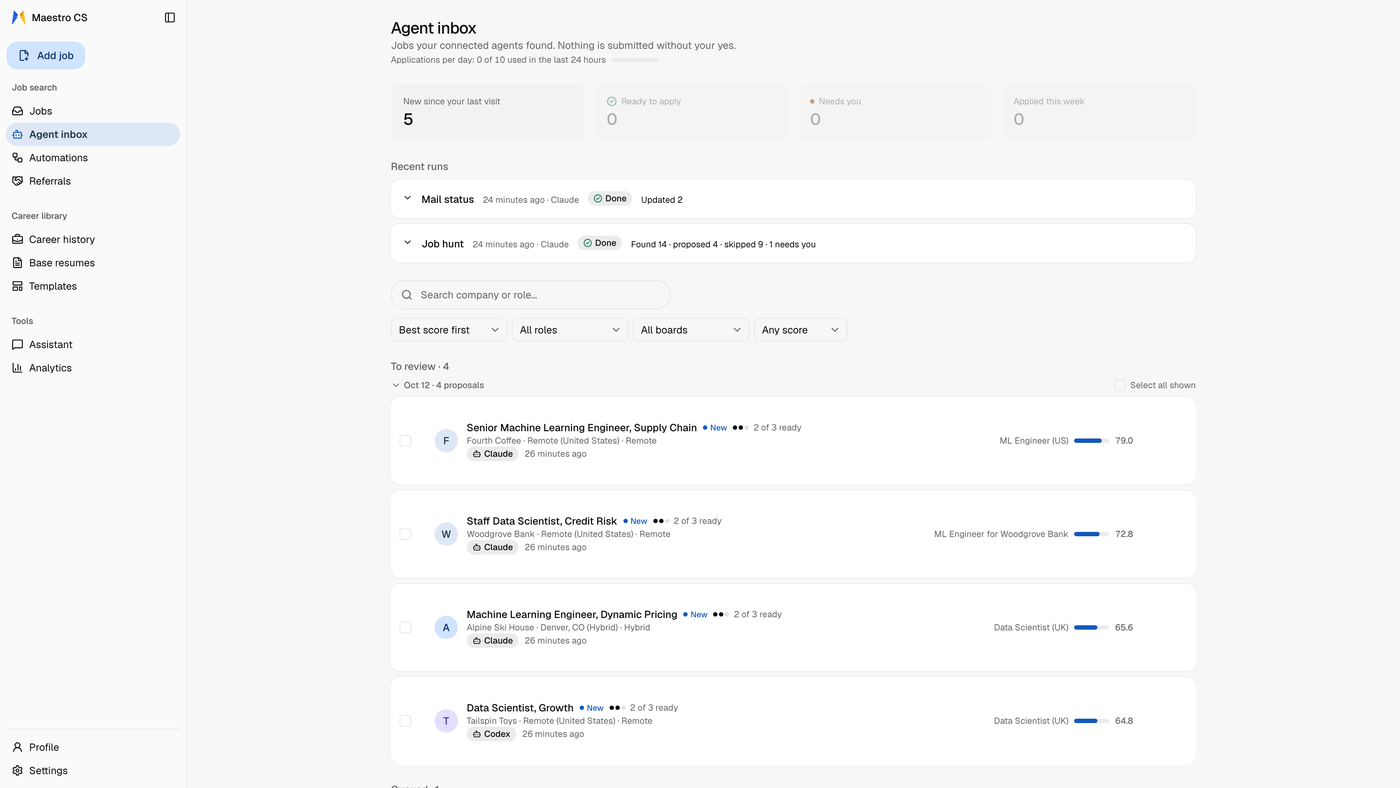
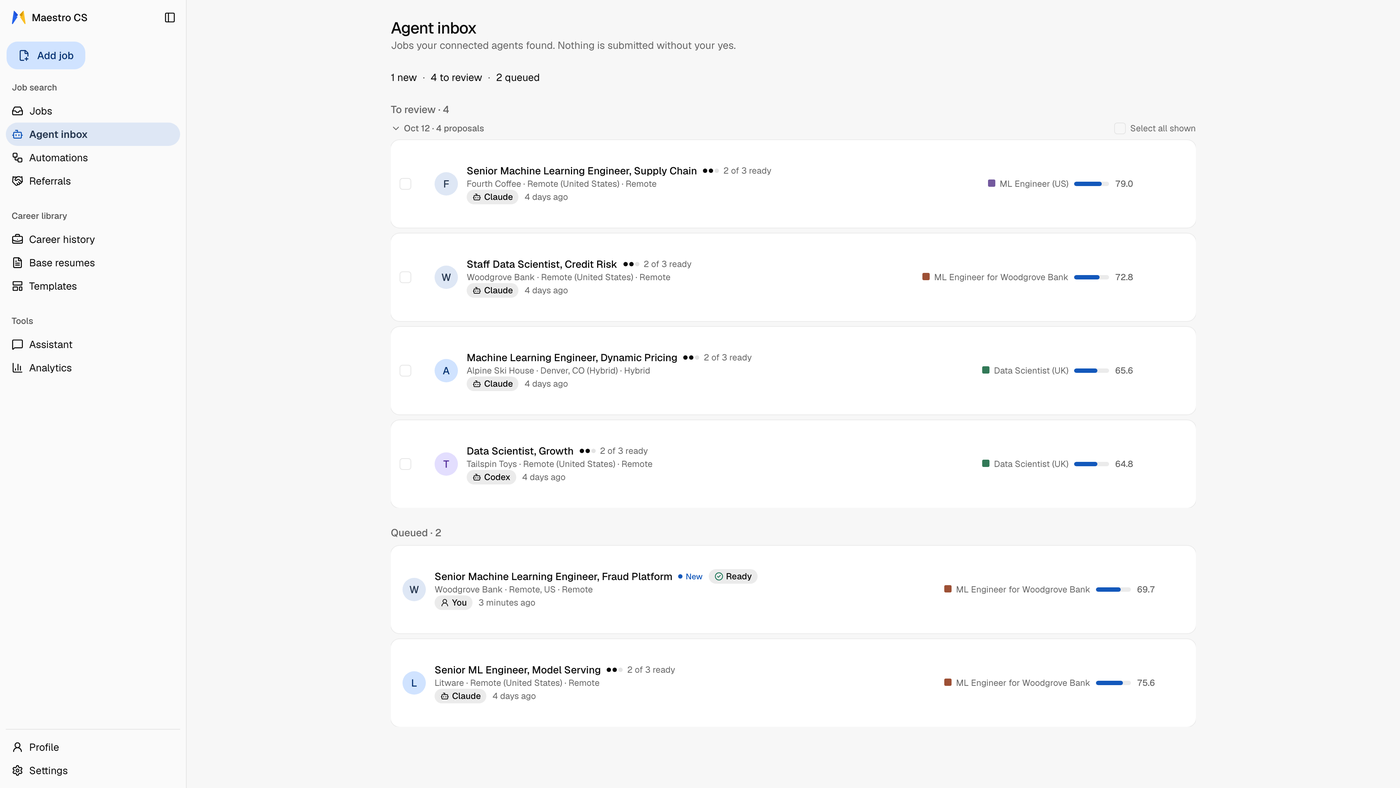
docs: retake the guide's screenshots on the 0.11.0 UI
The Jobs list with its Next step column, the job page's four steps, the
Agent inbox summary line, the Companion (now with Apply: fills each page,
clicks Next, stops on review), plus base resume, import, health report and
analytics. Fictional demo persona on a throwaway stack; the Companion GIF
drops to 300 KB.

diff --git a/docs/USING_MAESTRO.md b/docs/USING_MAESTRO.md
@@ -389,7 +389,7 @@ evidence for can only go in your skills list, never into an invented bullet.
      marketing repo (site-media/). Only fictional values may ever be on screen.
      1000px wide; keep any replacement under 2 MB. -->
 
-![The Companion on a job page](assets/extension.gif)
+![The Companion beside a job: it saves the job, picks the resume, and with full automation on, Apply fills each page, clicks Next and stops on the review page. You press Submit.](assets/extension.gif)
 
 The **Companion** is a side panel in Chrome: save a job from the job board you're reading, score
 it, and fill application forms from your saved answers (**Profile › Autofill**). It leaves
